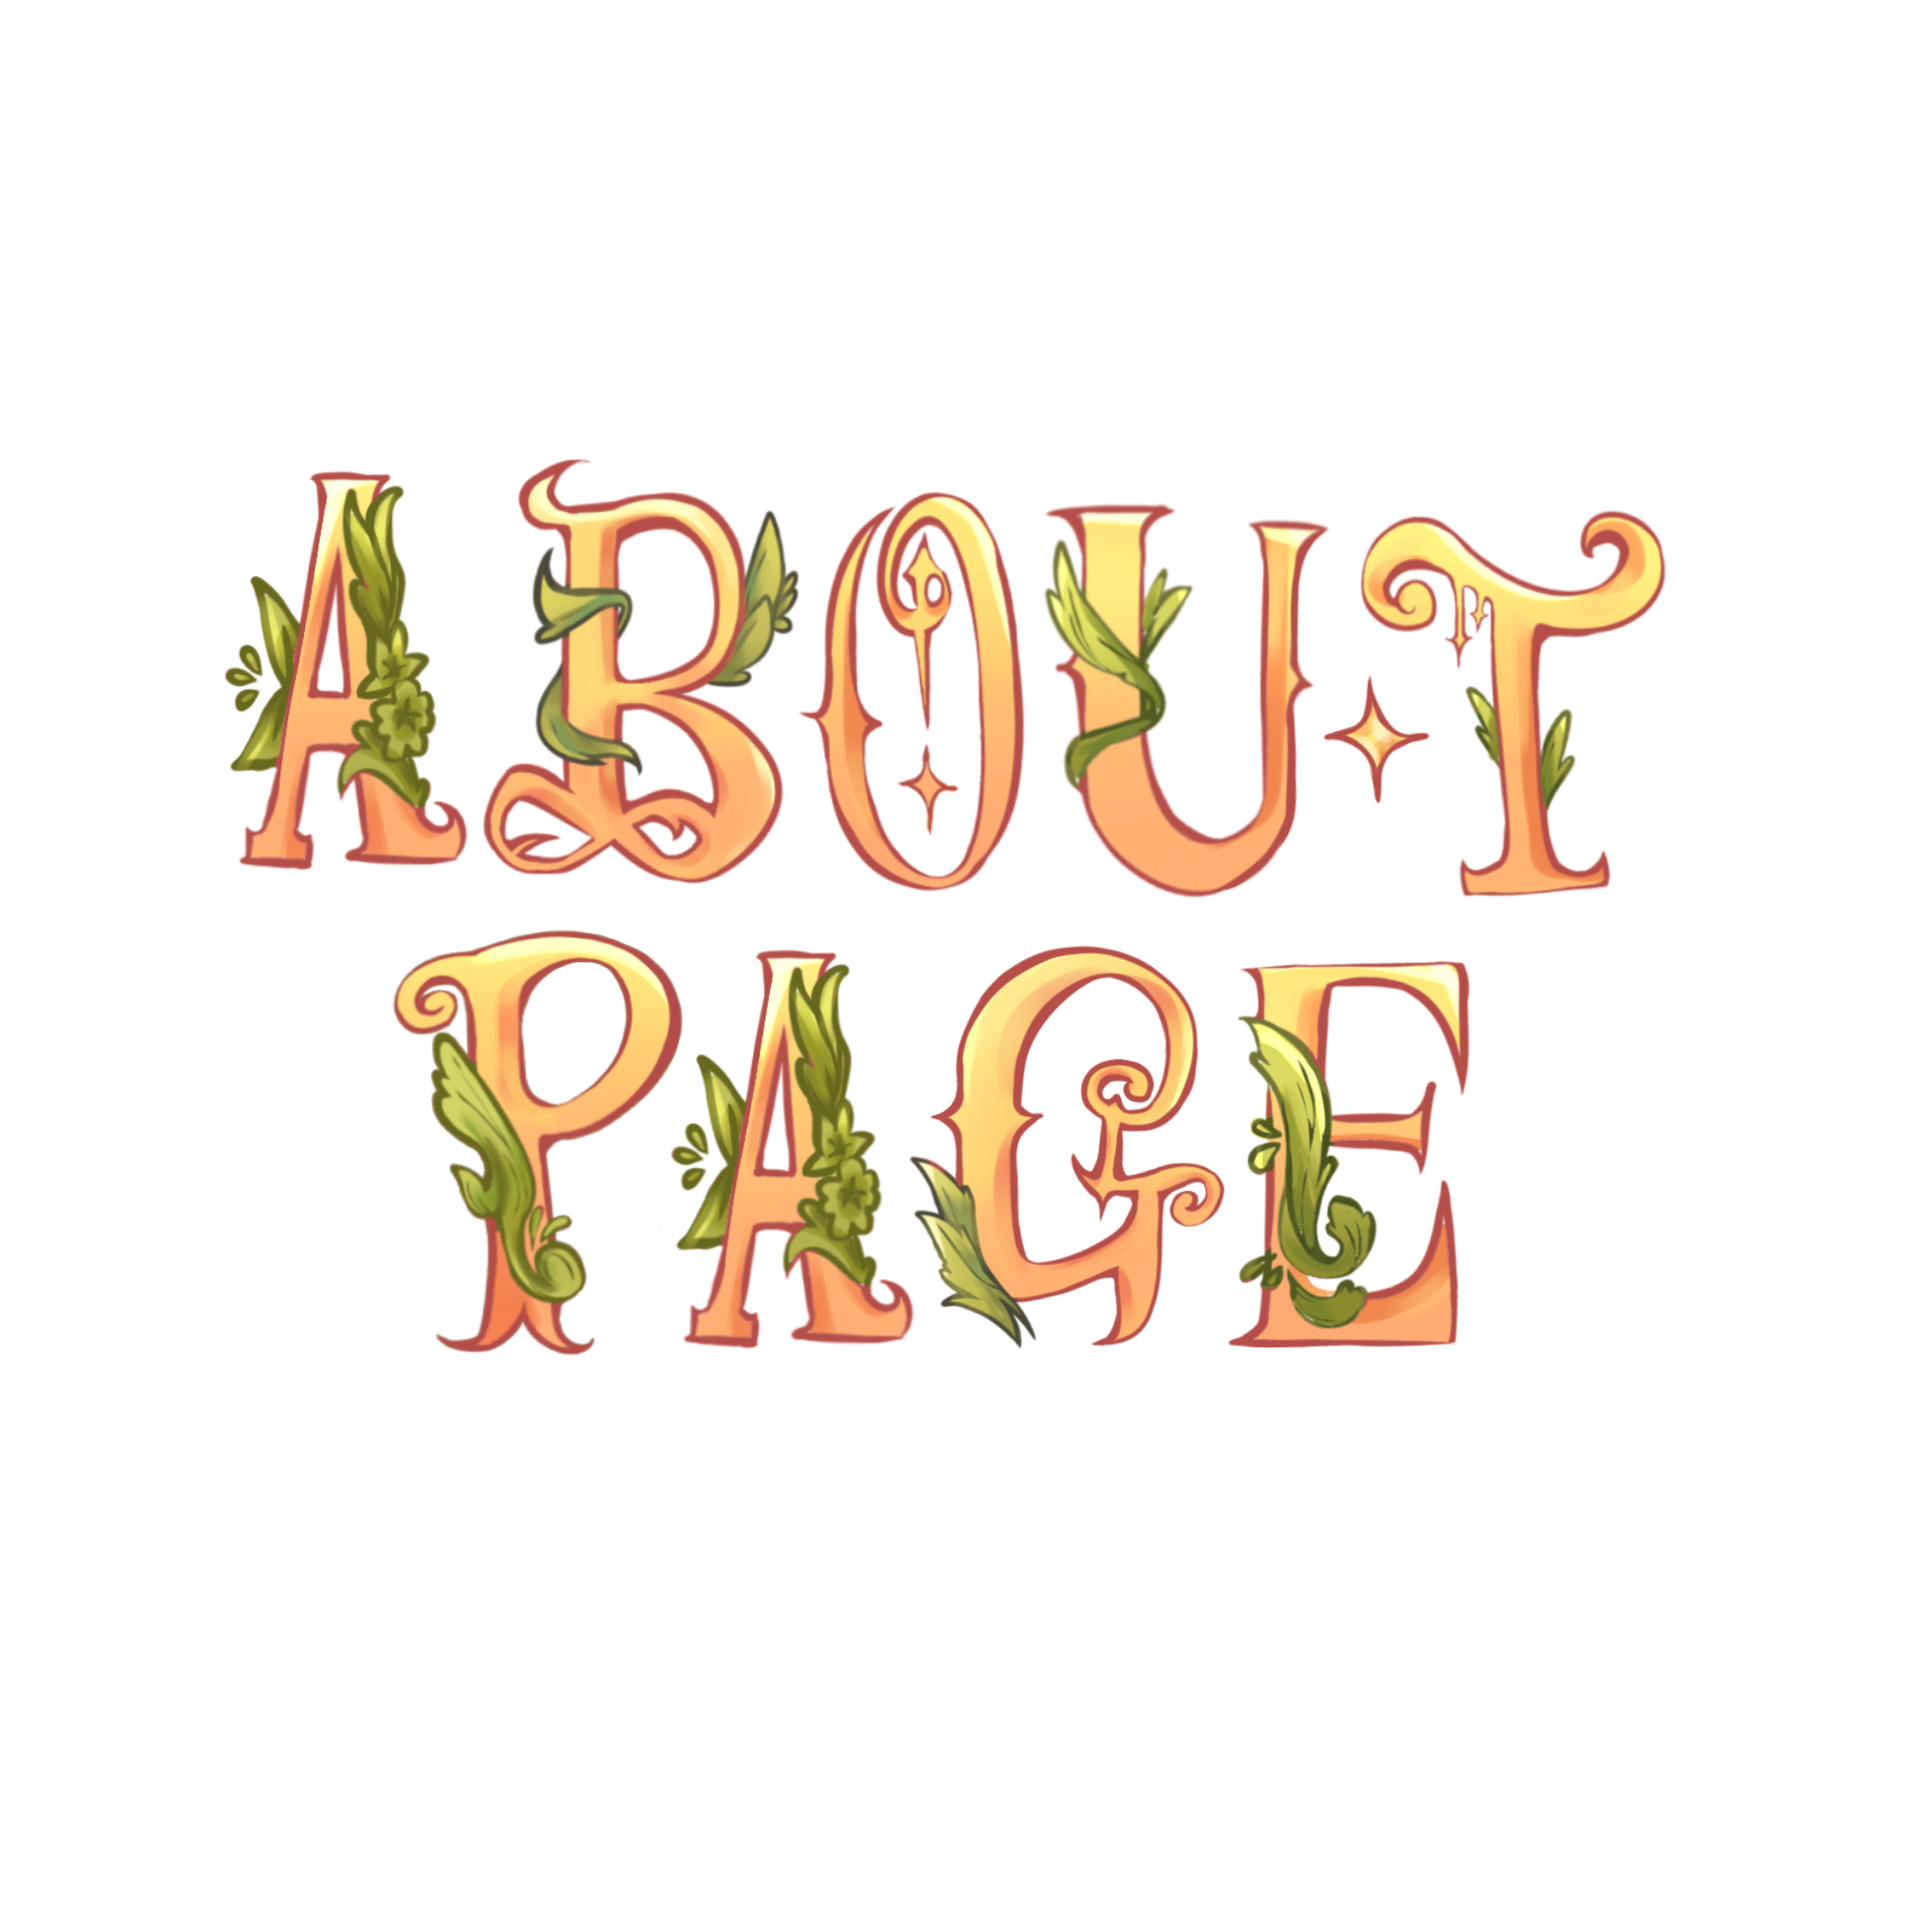
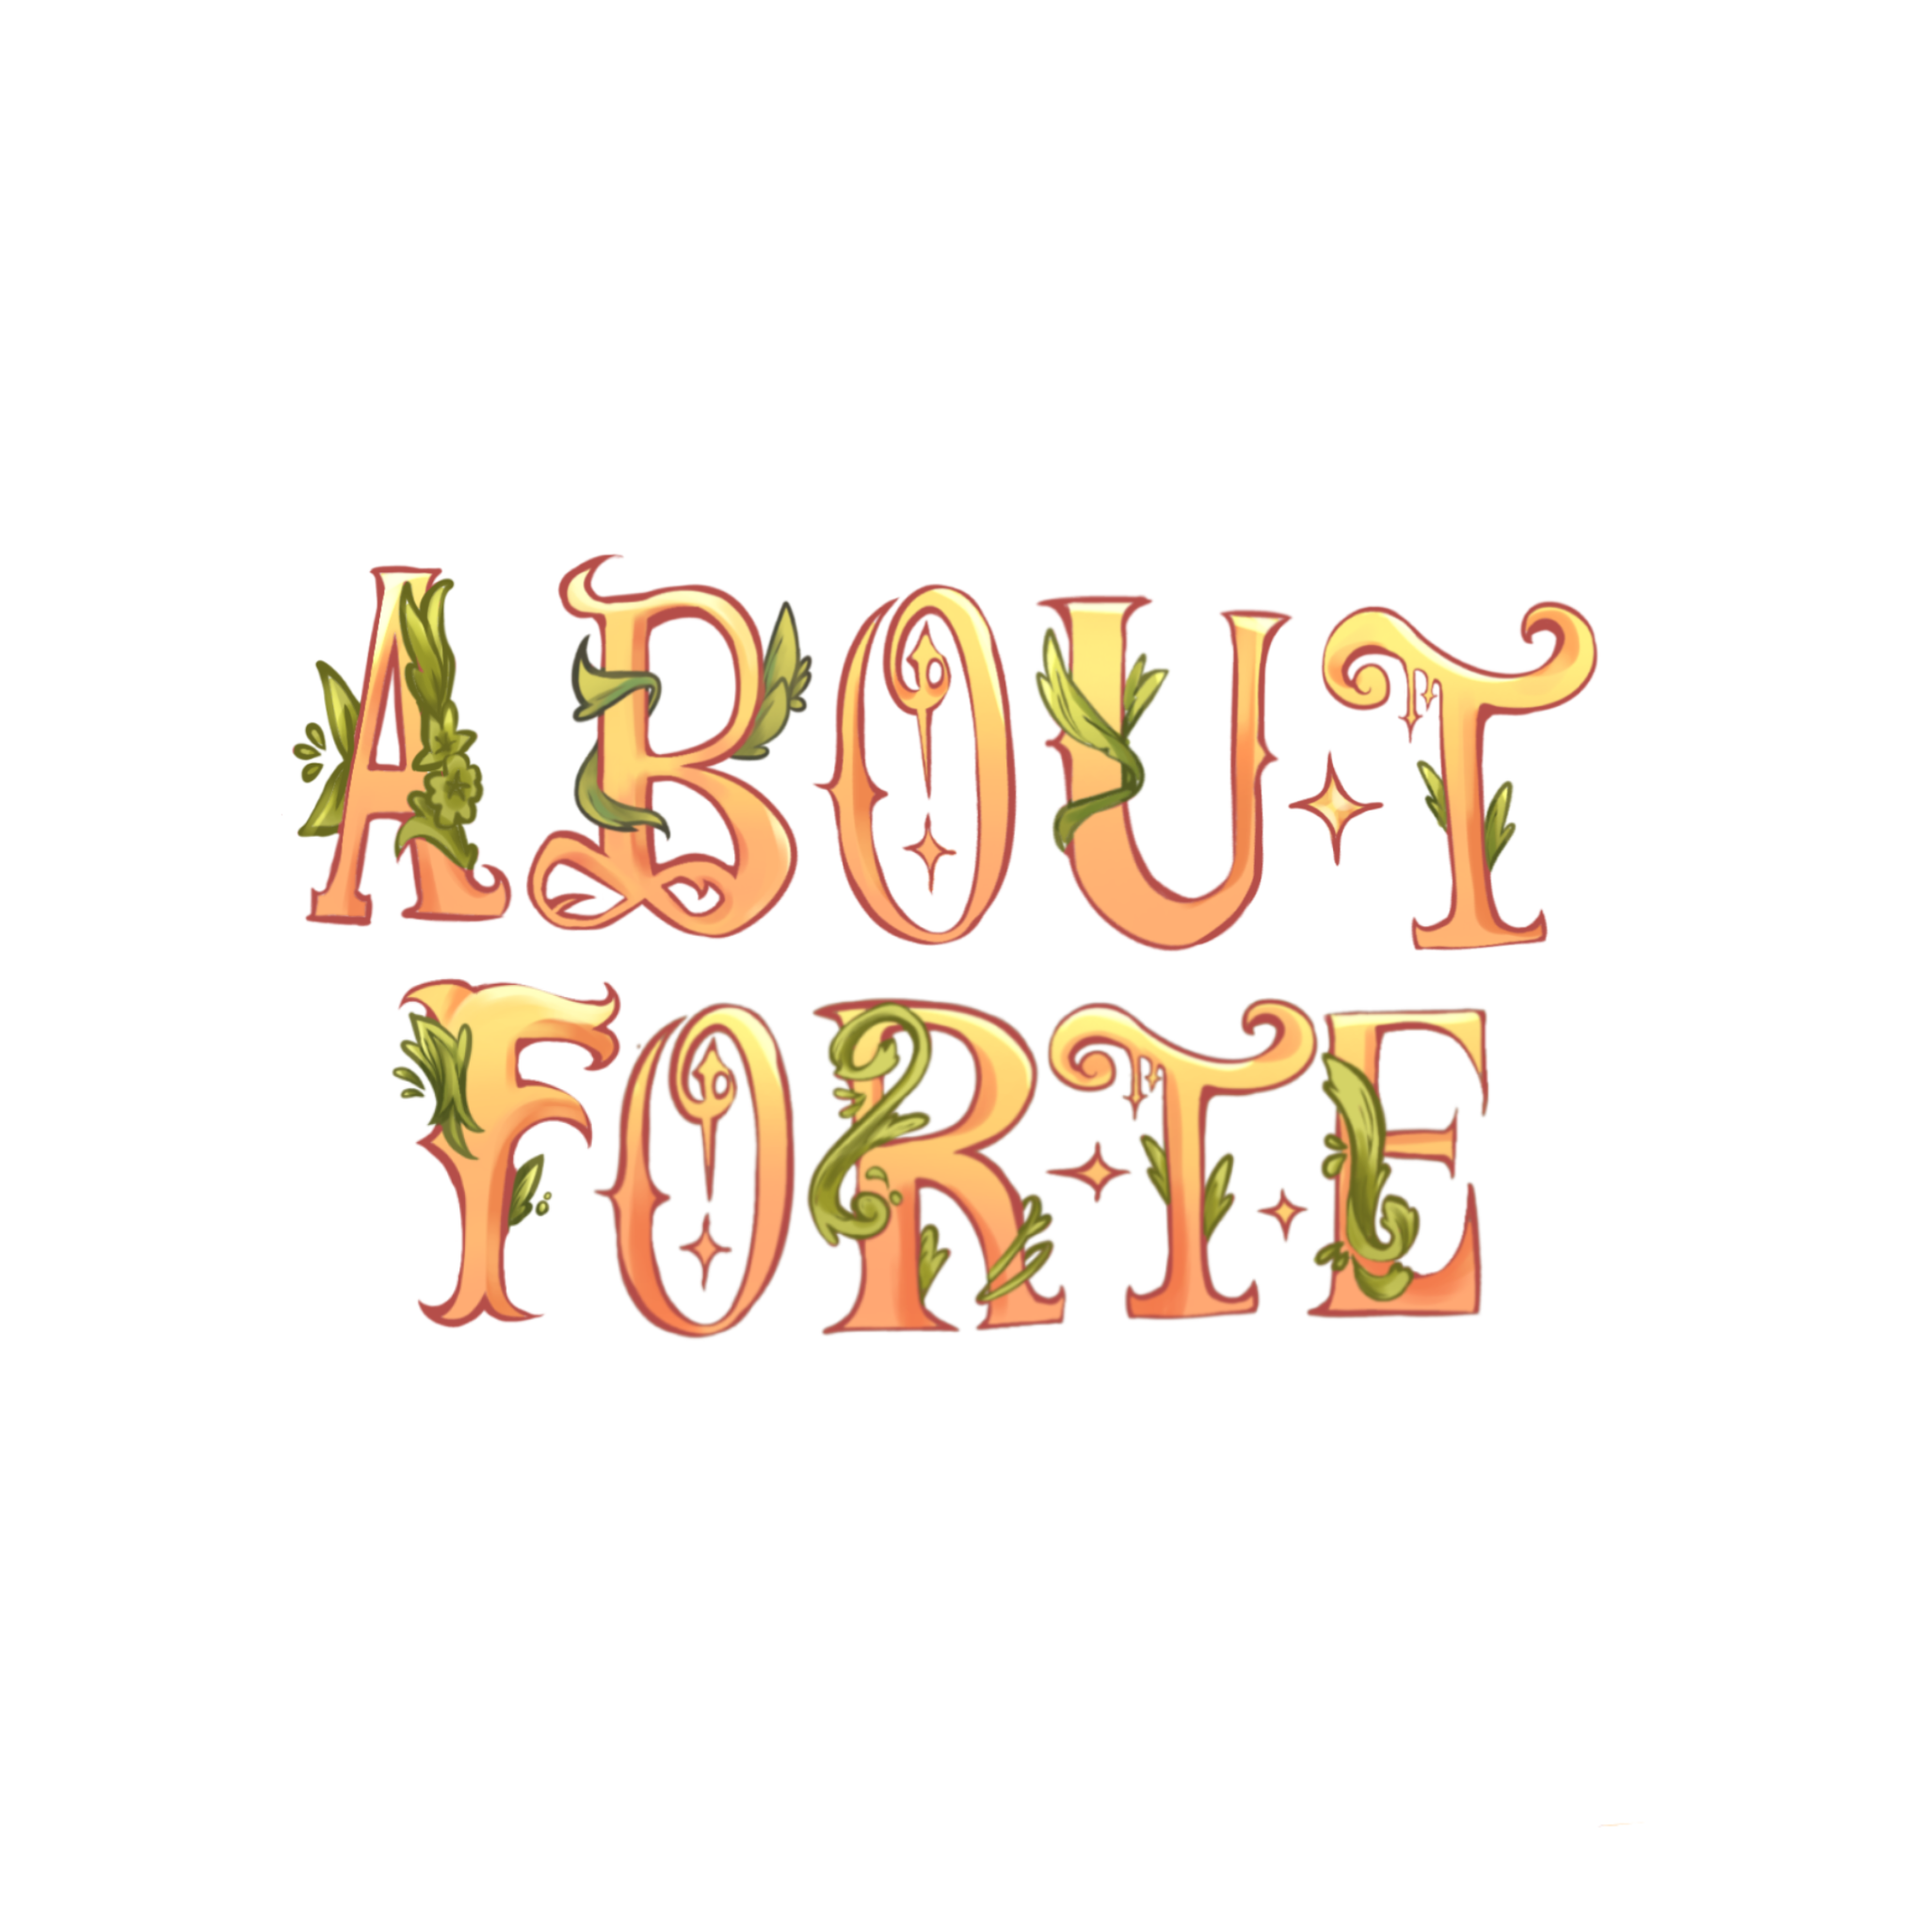
sixth_commit_notmuch

Changed region(s): [[0.0938, 0.2188, 0.875, 0.7188]]

diff --git a/about.html b/about.html
@@ -352,9 +352,10 @@
       overflow: hidden;
       display: flex;
       align-items: center;
-      justify-content: flex-end;
-      padding: 80px 6vw 0;
+      justify-content: center;
+      padding: 60px 0;
       background: none !important;
+      margin: 0;
     }
 
     .about-hero-bg {
@@ -378,13 +379,58 @@
 
     .about-heading-img {
       width: min(55vw, 560px) !important;
-      margin: -22% 0 -22% !important;
+      margin: -10% 0 -10% !important;
+    }
+
+    /* Fortelations heading -- wide canvas (99% content width,
+       content vertical center ~57% down), compensate vertically */
+    .about-forte-heading {
+      position: absolute;
+      z-index: 1;
+      width: 100%;
+      top: 75%;
+      transform: translateY(-50%);
+      display: flex;
+      flex-direction: column;
+      align-items: center;
+      gap: 0;
+    }
+
+    .fortelations-heading-img {
+      display: block;
+      width: min(90vw, 1000px) !important;
+      max-width: none !important;
+      height: auto !important;
+      margin: 0 auto;
+      filter:
+        drop-shadow(0 8px 24px rgba(0, 0, 0, 0.75))
+        drop-shadow(0 2px 8px rgba(0, 0, 0, 0.9))
+        drop-shadow(0 0 12px rgba(239, 157, 109, 0.4));
+      animation: logo-float 3s ease-in-out infinite;
+    }
+
+    .forte-desc {
+      font-family: 'Cinzel', serif;
+      font-size: clamp(13px, 1.4vw, 18px);
+      color: #FCDD8B;
+      text-shadow:
+        0 0 8px rgba(255, 210, 60, 0.7),
+        0 2px 8px rgba(0, 0, 0, 0.8);
+      text-align: center;
+      max-width: min(70vw, 700px);
+      line-height: 1.7;
+      margin-top: 0;
+      margin-bottom: 0;
+      letter-spacing: 0.3px;
     }
 
     .about-body {
       position: relative;
       width: 100%;
       line-height: 0;
+      margin: 0 !important;
+      padding: 0 !important;
+      display: block;
     }
 
     .about-body-bg {
@@ -392,6 +438,16 @@
       width: 100% !important;
       max-width: none !important;
       height: auto !important;
+    }
+    /* Navbar logo size */
+    #header .logo img {
+      max-height: 200px !important;
+    }
+
+    @media (max-width: 768px) {
+      #header .logo img {
+        max-height: 130px !important;
+      }
     }
   </style>
 </head>
@@ -409,7 +465,7 @@
       <nav id="navbar" class="navbar">
         <ul>
           <li><a class="nav-link scrollto" href="index.html">Home</a></li>
-          <li><a class="nav-link scrollto" href="#competitions">Competitions</a></li>
+          <li><a class="nav-link scrollto" href="index.html#competitions">Competitions</a></li>
           <li><a class="nav-link scrollto active" href="about.html">About</a></li>
           <li><a class="nav-link scrollto" href="calendar.html">Calendar</a></li>
           <li><a href="https://regist.fortelations.com/"><button>Registration</button></a></li>
@@ -420,18 +476,21 @@
     </div>
   </header>
 
-  <section id="hero" class="about-hero">
+  <div style="margin:0;padding:0;font-size:0;line-height:0;display:block">
+  <section id="hero" class="about-hero" style="display:block;margin:0;padding-bottom:0">
     <img src="assets/img/aboutpage1.jpeg" class="about-hero-bg" alt="" loading="lazy">
-    <div class="about-hero-heading">
-      <img src="assets/img/headings/Aboutpage.png"
-           class="section-heading-img about-heading-img"
-           alt="About Page" loading="lazy">
+    <div class="about-forte-heading">
+      <img src="assets/img/headings/fortelations.png"
+           class="fortelations-heading-img"
+           alt="Fortelations" loading="lazy">
+      <p class="forte-desc">An annual event of 'Information Technology for Language, Education &amp; Sport' by SMAK 7 PENABUR Jakarta</p>
     </div>
   </section>
-
   <section class="about-body">
+    <img src="assets/img/aboutpage1.jpeg" class="about-body-bg" alt="" loading="lazy">
     <img src="assets/img/aboutpage2.png" class="about-body-bg" alt="" loading="lazy">
   </section>
+  </div>
 
   <footer id="footer">
     <div class="container">

diff --git a/calendar.html b/calendar.html
@@ -350,6 +350,10 @@
       opacity: 1;
       transform: scale(1.1);
     }
+
+    #header .logo img {
+      max-height: 200px !important;
+    }
   </style>
 </head>
 
@@ -366,7 +370,7 @@
       <nav id="navbar" class="navbar">
         <ul>
           <li><a class="nav-link scrollto" href="index.html">Home</a></li>
-          <li><a class="nav-link scrollto" href="#competitions">Competitions</a></li>
+          <li><a class="nav-link scrollto" href="index.html#competitions">Competitions</a></li>
           <li><a class="nav-link scrollto" href="about.html">About</a></li>
           <li><a class="nav-link scrollto active" href="calendar.html">Calendar</a></li>
           <li><a href="https://regist.fortelations.com/"><button>Registration</button></a></li>

diff --git a/index.html b/index.html
@@ -321,6 +321,10 @@
       margin: 0;
     }
 
+    #header .logo img {
+      max-height: 200px !important;
+    }
+
     /* On touch/small screens, side-flipped tooltips risk running off
        the opposite edge since rocks already sit close to the inset
        boundary there — center them under the rock instead */
